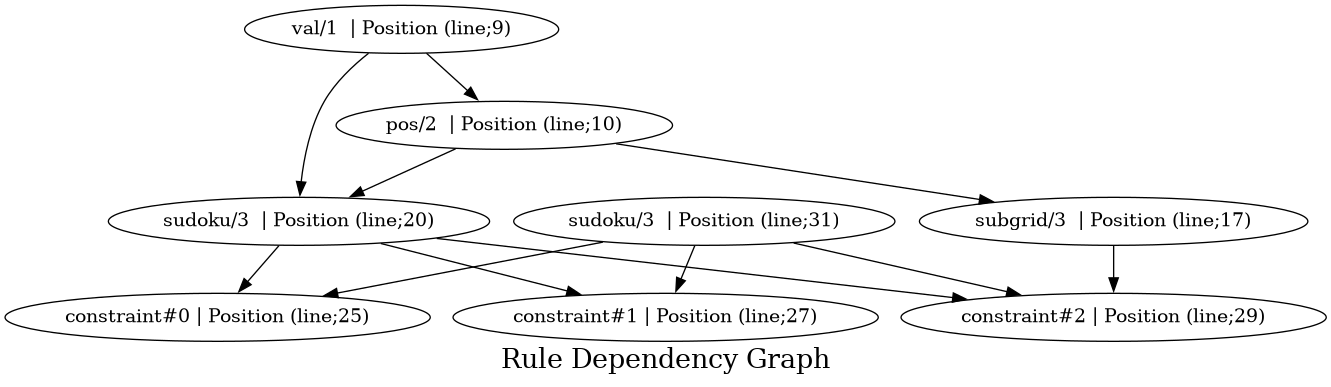
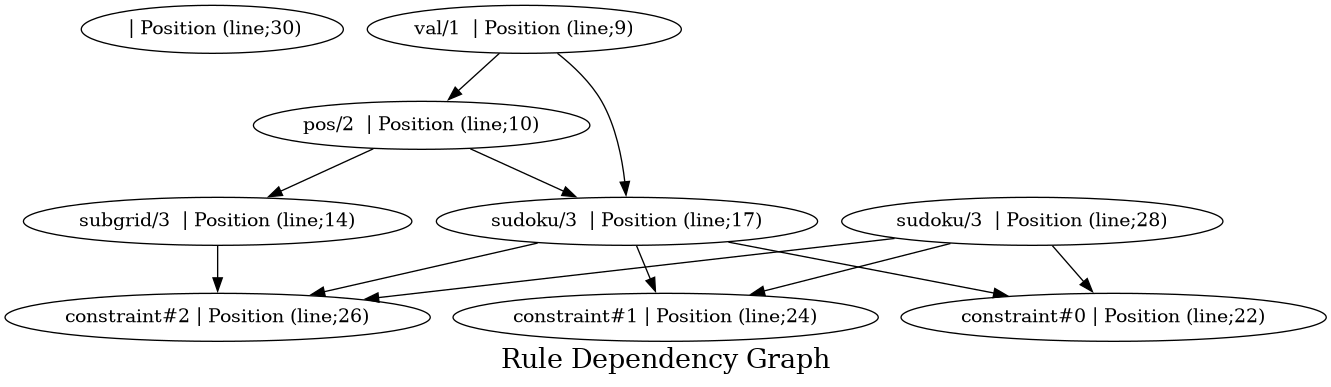
Comments fixing

diff --git a/clindoc/contributordoc.py b/clindoc/contributordoc.py
@@ -81,20 +81,20 @@ class MDMaker:
                 properties = [
                     lambda al: MDHelper.str_symbols_signature(al.define),
                     lambda al: MDHelper.str_symbols_signature(al.dependencies),
-                    lambda al: f"Line; {al.ast.location.begin.line}",
+                    lambda al: f"[Line; {al.ast.location.begin.line}]({al._location_link})",
                     lambda al: al.comments
                 ]
-                ret.append(MDMaker(pool[key], 'Rules', 'Showing all rules', {
+                ret.append(MDMaker(pool[key], '', '', {
                            'column_names': column_name, 'properties': properties}))
 
             elif key == ASTLineType.Fact:
                 column_name = ['Signature',  'Location', 'Doc']
                 properties = [
                     lambda al: MDHelper.str_symbols_signature(al.define),
-                    lambda al: f"Line; {al.ast.location.begin.line}",
+                    lambda al: f"[Line; {al.ast.location.begin.line}]({al._location_link})",
                     lambda al: al.comments
                 ]
-                ret.append(MDMaker(pool[key], 'Facts', 'Showing all facts', {
+                ret.append(MDMaker(pool[key], '', '', {
                            'column_names': column_name, 'properties': properties}))
 
             elif key == ASTLineType.Constraint:
@@ -102,29 +102,29 @@ class MDMaker:
                 properties = [
                     lambda al: f"constraint#{al.id}",
                     lambda al: MDHelper.str_symbols_signature(al.dependencies),
-                    lambda al: f"Line; {al.ast.location.begin.line}",
+                    lambda al: f"[Line; {al.ast.location.begin.line}]({al._location_link})",
                     lambda al: al.comments
                 ]
-                ret.append(MDMaker(pool[key], 'Constraints', 'Showing all constraints ', {
+                ret.append(MDMaker(pool[key], '', '', {
                            'column_names': column_name, 'properties': properties}))
 
             elif key == ASTLineType.Input:
                 column_name = ['Signature',  'Location', 'Doc']
                 properties = [
                     lambda al: f"{al.ast.name}/{al.ast.arity}",
-                    lambda al: f"Line; {al.ast.location.begin.line}",
+                    lambda al: f"[Line; {al.ast.location.begin.line}]({al._location_link})",
                     lambda al: al.comments
                 ]
-                ret.append(MDMaker(pool[key], 'Inputs', 'Showing all inputs ', {
+                ret.append(MDMaker(pool[key], '', '', {
                            'column_names': column_name, 'properties': properties}))
             elif key == ASTLineType.Output:
                 column_name = ['Signature',  'Location', 'Doc']
                 properties = [
                     lambda al: al.get_output_signature(),
-                    lambda al: f"Line; {al.ast.location.begin.line}",
+                    lambda al: f"[Line; {al.ast.location.begin.line}]({al._location_link})",
                     lambda al: al.comments
                 ]
-                ret.append(MDMaker(pool[key], 'Outputs', 'Showing all outputs ', {
+                ret.append(MDMaker(pool[key], '', '', {
                            'column_names': column_name, 'properties': properties}))
 
         return ret

diff --git a/clindoc/astprogram.py b/clindoc/astprogram.py
@@ -8,10 +8,17 @@ def fetch_comments(ast: AST, file: List[str], identificator="%-") -> List[str]:
     lines = lines[:ast.location.begin.line]
     lines.reverse()
     comments = []
-    for line in lines:
+    for idx,line in enumerate(lines):
+        
         if identificator in line:
-            comments.append(line[line.index(identificator)+len(identificator):])
-        elif not line.strip() :
+            if idx == 0:
+                comments.append(line[line.index(identificator)+len(identificator):].strip())
+            if idx >0 and line.strip()[:len(identificator)] == identificator:
+                comments.append(line[line.index(identificator)+len(identificator):].strip())
+            else:
+                break
+        elif line.strip():
+            print(line)
             break
     comments.reverse()
     return comments
@@ -256,9 +263,7 @@ class ASTLine:
                 print('To be ignore or not implemented yet')
 
     def _to_github_link_location(self):
-        print(f'https://github.com/Owrel/clindoc/blob/master/{self.location.begin.filename}#L{self.location.begin.line}')
-        print(self.location)
-        return 'None'
+        return f'https://github.com/Owrel/clindoc/blob/master/{self.location.begin.filename}#L{self.location.begin.line}'
 
 
 class Rule(ASTLine):

diff --git a/clindoc/ruledependencygraph.py b/clindoc/ruledependencygraph.py
@@ -5,7 +5,7 @@ import graphviz
 class RuleDependencyGraph:
     def __init__(self,astprogram:ASTProgram) -> None:
         self.astprogram = astprogram
-        g = graphviz.Digraph('G', filename='RuleDependencyGraph',format='png')
+        g = graphviz.Digraph('G', filename='RuleDependencyGraph',format='svg')
         
         def pretty_display(al:ASTLine) -> str:
             ret = ""
@@ -24,7 +24,8 @@ class RuleDependencyGraph:
             if a.type == ASTLineType.Rule or a.type == ASTLineType.Constraint or a.type == ASTLineType.Fact:
                 pool.append(a) 
         edges = set()
-
+        for n in pool:
+            g.node(pretty_display(n),href=n._location_link)
         for a in pool:
             for b in pool:
                 if a != b:

diff --git a/out.md b/out.md
@@ -1,59 +1,46 @@
 
 # Contributor documentation
-## Section : "Input"
-## Inputs
-Showing all inputs 
-
-| **Signature** | **Location** | **Doc** |
-|---------------|--------------|---------|
-| instance/3 | Line; 5 | ['-- `instance(X,Y,V)` The cell (`X`, `Y`) has an initial value of `V`\n'] |
-
-## Facts
-Showing all facts
-
-| **Signature** | **Location** | **Doc** |
-|---------------|--------------|---------|
-| val/1 | Line; 9 | ['-- The dimension of the Sudoku: `dim*dim x dim*dim grid\n'] |
-
-## Rules
-Showing all rules
-
-| **Signature** | **Depends** | **Location** | **Doc** |
-|---------------|-------------|--------------|---------|
-| pos/2 | val/1 | Line; 10 | ['-- The dimension of the Sudoku: `dim*dim x dim*dim grid\n'] |
-
-## Section : "Rules"
-## Rules
-Showing all rules
-
-| **Signature** | **Depends** | **Location** | **Doc** |
-|---------------|-------------|--------------|---------|
-| subgrid/3 | pos/2 | Line; 17 | [' `subgrid(X,Y,S)` The cell (`X`, `Y`) is in subgrid `S`\n'] |
-| sudoku/3 | pos/2 val/1 | Line; 20 | [' `sudoku(X,Y,V)` The cell (`X`, `Y`) has value `V` with `0<V<=dim*dim`\n'] |
-
-## Section : "Constraint"
-## Constraints
-Showing all constraints 
+## Section : Constraints
 
 | **Signature** | **Dependencies** | **Location** | **Doc** |
 |---------------|------------------|--------------|---------|
-| constraint#0 | sudoku/3 | Line; 25 | [" Can't repeat values per row\n"] |
-| constraint#1 | sudoku/3 | Line; 27 | [" Can't repeat values per row\n", " Can't repeat values per column\n"] |
-| constraint#2 | subgrid/3 sudoku/3 | Line; 29 | [" Can't repeat values per row\n", " Can't repeat values per column\n", " Can't repeat values per subgrid\n"] |
+| constraint#0 | sudoku/3 | [Line; 25](https://github.com/Owrel/clindoc/blob/master/examples/sudoku_without_user_doc.lp#L25) | [] |
+| constraint#1 | sudoku/3 | [Line; 28](https://github.com/Owrel/clindoc/blob/master/examples/sudoku_without_user_doc.lp#L28) | [] |
+| constraint#2 | subgrid/3 sudoku/3 | [Line; 33](https://github.com/Owrel/clindoc/blob/master/examples/sudoku_without_user_doc.lp#L33) | [] |
 
-## Rules
-Showing all rules
+## Section : Translation & Output
 
 | **Signature** | **Depends** | **Location** | **Doc** |
 |---------------|-------------|--------------|---------|
-| sudoku/3 | instance/3 | Line; 31 | [] |
+| sudoku/3 | instance/3 | [Line; 36](https://github.com/Owrel/clindoc/blob/master/examples/sudoku_without_user_doc.lp#L36) | [] |
 
-## Outputs
-Showing all outputs 
 
 | **Signature** | **Location** | **Doc** |
 |---------------|--------------|---------|
-| sudoku/3 | Line; 33 | [] |
+| sudoku/3 | [Line; 38](https://github.com/Owrel/clindoc/blob/master/examples/sudoku_without_user_doc.lp#L38) | [] |
+
+## Section : Rules
+
+| **Signature** | **Depends** | **Location** | **Doc** |
+|---------------|-------------|--------------|---------|
+| subgrid/3 | pos/2 | [Line; 14](https://github.com/Owrel/clindoc/blob/master/examples/sudoku_without_user_doc.lp#L14) | ['`subgrid(X,Y,S)` The cell (`X`, `Y`) is in subgrid `S`'] |
+| sudoku/3 | val/1 pos/2 | [Line; 17](https://github.com/Owrel/clindoc/blob/master/examples/sudoku_without_user_doc.lp#L17) | [] |
+
+## Section : Input
+
+| **Signature** | **Location** | **Doc** |
+|---------------|--------------|---------|
+| instance/3 | [Line; 5](https://github.com/Owrel/clindoc/blob/master/examples/sudoku_without_user_doc.lp#L5) | [] |
+
+
+| **Signature** | **Location** | **Doc** |
+|---------------|--------------|---------|
+| val/1 | [Line; 9](https://github.com/Owrel/clindoc/blob/master/examples/sudoku_without_user_doc.lp#L9) | [] |
+
+
+| **Signature** | **Depends** | **Location** | **Doc** |
+|---------------|-------------|--------------|---------|
+| pos/2 | val/1 | [Line; 10](https://github.com/Owrel/clindoc/blob/master/examples/sudoku_without_user_doc.lp#L10) | [] |
 
 
 ![Definition Dependency Graph](DefinitionDependencyGraph.png)
